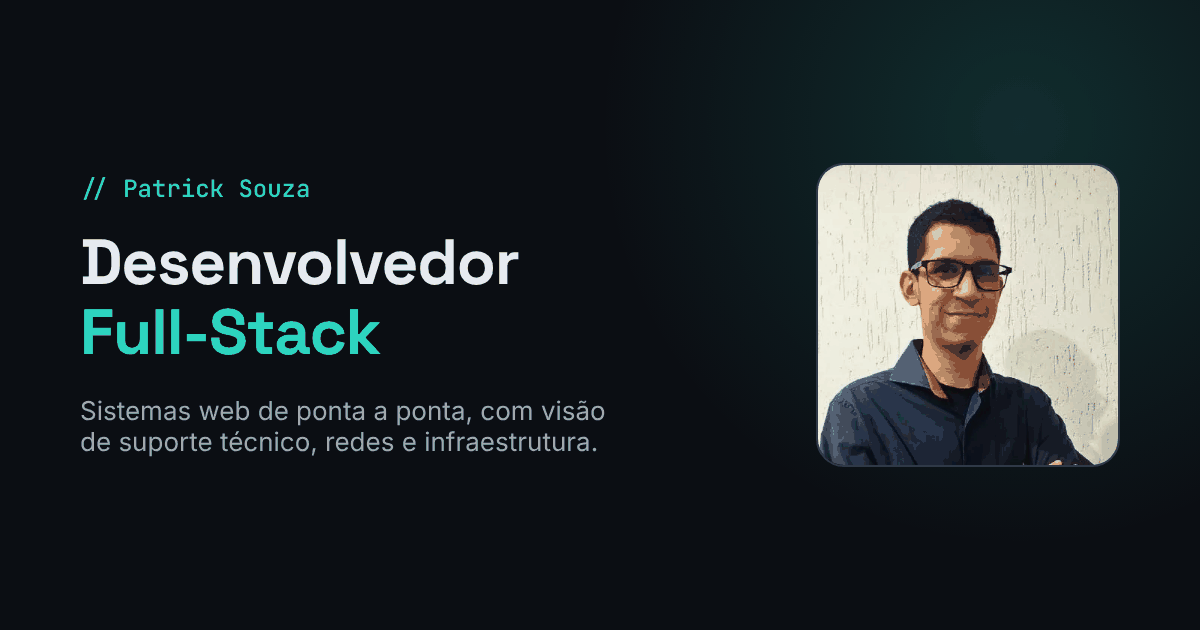
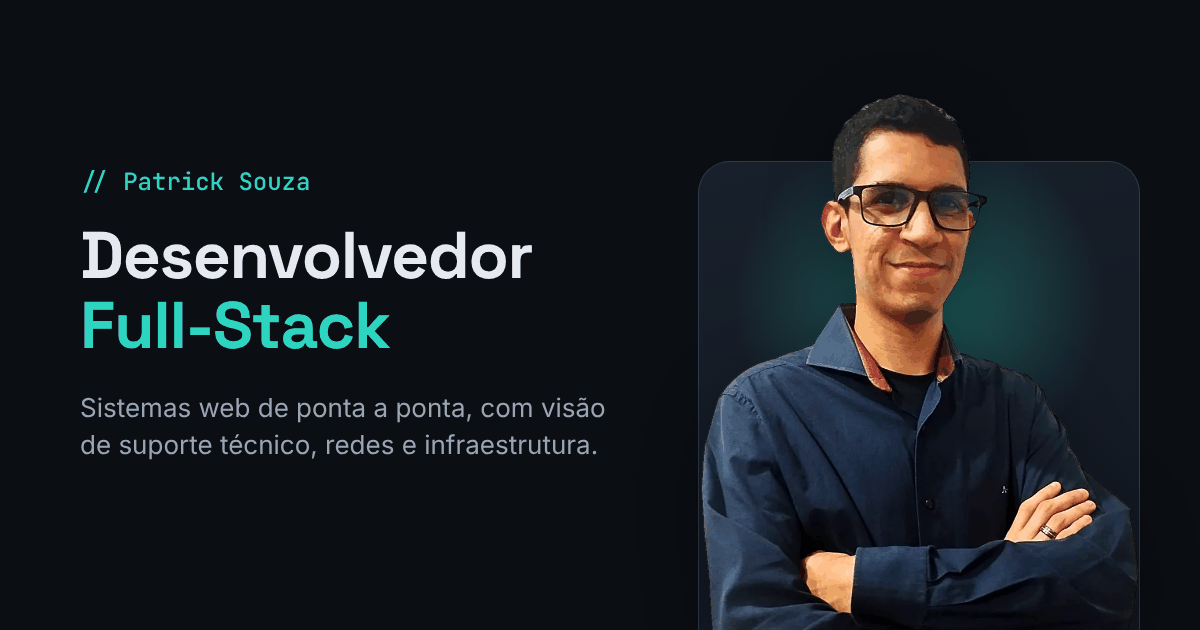
Hero: retrato recortado com efeito pop-out
- Usa a versão em alta resolução da foto (Novo_Perfil.jpg do histórico)
- Fundo removido por IA, borda refinada sem halo da parede e ajuste
  leve de contraste/cor/nitidez (sem alterar traços)
- Palco com glow verde-água, anéis e grade; cabeça ultrapassa a borda
  do cartão; etiquetas flutuantes "Full-Stack" e "Suporte & Redes"
- og-image atualizada com o novo retrato

Claude-Session: https://claude.ai/code/session_011UP1xNPUcHwnMXoxoUZ69m

diff --git a/assets/css/style.css b/assets/css/style.css
@@ -397,22 +397,78 @@ code {
 .hero__socials { display: flex; gap: 0.5rem; }
 
 /* Foto + terminal */
-.hero__visual { position: relative; max-width: 320px; margin-inline: auto; width: 100%; }
-.profile {
-  aspect-ratio: 1;
-  border-radius: 24px;
-  overflow: hidden;
+.hero__visual { position: relative; max-width: 340px; margin-inline: auto; width: 100%; padding-top: 2.5rem; }
+
+/* Retrato com efeito pop-out: o cartão (palco) tem altura fixa e a foto,
+   mais alta que ele, "sai" pela borda de cima. */
+.portrait { position: relative; margin: 0; }
+.portrait__stage {
+  position: absolute;
+  inset: 18% 0 0 0;               /* o palco começa abaixo do topo da cabeça */
+  border-radius: 28px;
   border: 1px solid var(--border-strong);
   box-shadow: var(--shadow);
-  background: var(--surface);
-  width: 78%;
+  overflow: hidden;
+  background:
+    radial-gradient(60% 55% at 50% 30%, color-mix(in srgb, var(--accent) 38%, transparent), transparent 70%),
+    linear-gradient(160deg, var(--surface-2), var(--surface));
 }
-.profile__img { width: 100%; height: 100%; object-fit: cover; }
+/* anéis concêntricos + grade sutil atrás do retrato */
+.portrait__stage::before,
+.portrait__stage::after { content: ''; position: absolute; inset: 0; }
+.portrait__stage::before {
+  background: repeating-radial-gradient(circle at 50% 28%, transparent 0 46px, color-mix(in srgb, var(--accent) 16%, transparent) 46px 47px);
+  mask-image: radial-gradient(circle at 50% 28%, #000 20%, transparent 62%);
+}
+.portrait__stage::after {
+  background-image:
+    linear-gradient(color-mix(in srgb, var(--text) 5%, transparent) 1px, transparent 1px),
+    linear-gradient(90deg, color-mix(in srgb, var(--text) 5%, transparent) 1px, transparent 1px);
+  background-size: 24px 24px;
+  mask-image: linear-gradient(to bottom, transparent, #000 60%);
+}
+.portrait__img {
+  position: relative;
+  display: block;
+  width: 100%;
+  height: auto;
+  /* corta só embaixo e nas laterais, com o mesmo raio do palco;
+     em cima fica livre para a cabeça ultrapassar a borda */
+  clip-path: inset(-40% 0 0 0 round 0 0 28px 28px);
+  filter: drop-shadow(0 18px 30px rgba(0, 0, 0, 0.35));
+}
+
+/* Etiquetas flutuantes */
+.portrait__chip {
+  position: absolute;
+  display: inline-flex;
+  align-items: center;
+  gap: 0.4rem;
+  padding: 0.4rem 0.7rem;
+  border-radius: 999px;
+  font-family: var(--font-mono);
+  font-size: 0.72rem;
+  white-space: nowrap;
+  color: var(--text);
+  background: color-mix(in srgb, var(--surface) 85%, transparent);
+  border: 1px solid var(--border-strong);
+  backdrop-filter: blur(8px);
+  box-shadow: var(--shadow);
+}
+.portrait__chip .icon { width: 0.95rem; height: 0.95rem; color: var(--accent); }
+.portrait__chip--a { top: 30%; left: -6%; color: var(--accent); }
+.portrait__chip--b { top: 52%; right: -6%; }
+@media (prefers-reduced-motion: no-preference) {
+  .portrait__chip--a { animation: float 6s ease-in-out infinite; }
+  .portrait__chip--b { animation: float 6s ease-in-out -3s infinite; }
+}
+@keyframes float { 50% { transform: translateY(-6px); } }
 
 .terminal {
   position: relative;
-  margin: -4.5rem 0 0 auto;
-  width: 82%;
+  margin: -1.75rem 0 0 auto;
+  width: 78%;
+  transform: translateX(8%);
   background: #0d1117;            /* terminal é sempre escuro, nos dois temas */
   color: #c9d1d9;
   border: 1px solid #2a3340;
@@ -937,7 +993,7 @@ code {
 
   .hero { padding-block: 5rem 4rem; }
   .hero__grid { grid-template-columns: 1.35fr 1fr; gap: 4rem; }
-  .hero__visual { max-width: 400px; margin-right: 0; }
+  .hero__visual { max-width: 380px; margin-right: 0; }
 
   .section { padding-block: 6.5rem; }
 

diff --git a/index.html b/index.html
@@ -61,7 +61,7 @@
       href="https://fonts.googleapis.com/css2?family=Inter:wght@400;600&family=JetBrains+Mono:wght@500&family=Space+Grotesk:wght@500;700&display=swap"
     />
 
-    <link rel="preload" as="image" href="./assets/images/patrick-souza.webp" type="image/webp" />
+    <link rel="preload" as="image" href="./assets/images/patrick-souza-cutout.webp" type="image/webp" />
     <link rel="stylesheet" href="./assets/css/style.css" />
 
     <!-- Dados estruturados (Google entende quem você é) -->
@@ -72,7 +72,7 @@
         "name": "Patrick Souza",
         "jobTitle": "Desenvolvedor Full-Stack",
         "url": "https://SEU-DOMINIO.com/",
-        "image": "https://SEU-DOMINIO.com/assets/images/patrick-souza.webp",
+        "image": "https://SEU-DOMINIO.com/assets/images/patrick-souza-cutout.webp",
         "sameAs": [
           "https://github.com/PatrickCaramico",
           "https://www.linkedin.com/in/patrickcaramico/"
@@ -204,15 +204,25 @@
 
           <!-- Foto + "cartão de terminal" com o resumo do perfil -->
           <div class="hero__visual">
-            <figure class="profile">
+            <!--
+              Retrato recortado (fundo transparente) sobre um "palco" com a cor
+              do portfólio. A cabeça ultrapassa a borda superior do cartão
+              (efeito pop-out) via clip-path no .portrait__img.
+            -->
+            <figure class="portrait">
+              <div class="portrait__stage" aria-hidden="true"></div>
               <img
-                src="./assets/images/patrick-souza.webp"
-                alt="Foto de Patrick Souza"
-                width="400"
-                height="400"
-                class="profile__img"
+                src="./assets/images/patrick-souza-cutout.webp"
+                alt="Foto de Patrick Souza, de camisa azul e braços cruzados"
+                width="760"
+                height="927"
+                class="portrait__img"
                 fetchpriority="high"
               />
+              <span class="portrait__chip portrait__chip--a" aria-hidden="true">&lt;/&gt; Full-Stack</span>
+              <span class="portrait__chip portrait__chip--b" aria-hidden="true">
+                <svg class="icon" aria-hidden="true"><use href="#i-network"></use></svg> Suporte &amp; Redes
+              </span>
             </figure>
             <div class="terminal" aria-hidden="true">
               <div class="terminal__bar"><span></span><span></span><span></span></div>
